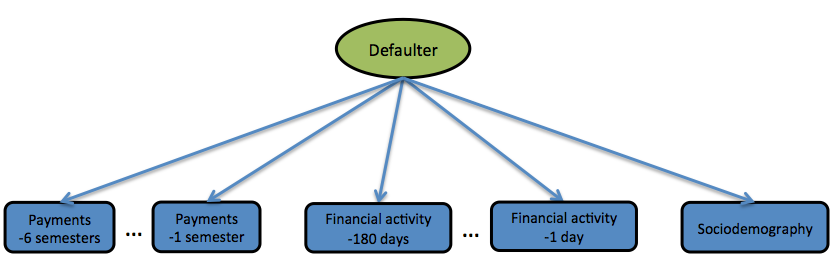
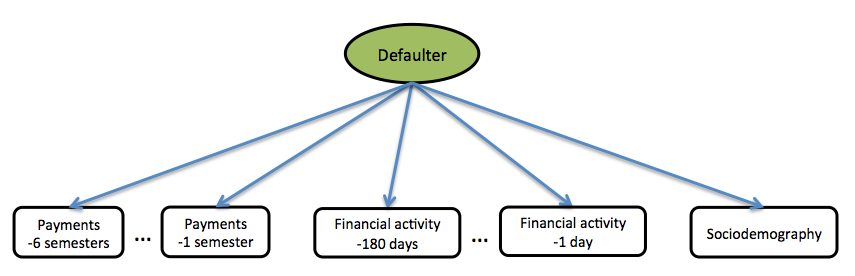
New item in the biblio.bib file (Deliverable 1.2) and other changes in Cajamar document

Changed region(s): [[0.0, 0.0597, 0.9964, 0.9552]]

diff --git a/doc/D2.1_AMIDSTModelingFramework/CajaMarModels.tex b/doc/D2.1_AMIDSTModelingFramework/CajaMarModels.tex
@@ -115,35 +115,43 @@ Figure \ref{Figure:CajaMarStatic} shows the general structure of this static mod
 \begin{figure}[htbp]
   \centering
 \includegraphics[scale=0.5]{./figures/CajaMarModel0}
-\caption{\label{Figure:CajaMarStatic}Global structure of the static model. Each blue box represents a set of variables for a particular time. The green node on top is the class variable \emph{Defaulter} that represents the probability that a customer will default within the next two years. } 
+\caption{\label{Figure:CajaMarStatic}Global structure of the static model. Each white box represents a set of variables for a particular time. The green node on top is the class variable \emph{Defaulter} that represents the probability that a customer will default within the next two years. } 
 \label{fig:static}
 \end{figure}
 
-The variables within a blue box might be connected (e.g. according to a tree structure and, globally, conforming a TAN). Figure~\ref{fig:CajaMarBayesianNetwork} shows a Bayesian network structure learnt from customers data that have been aggregated from different times, e.g., 180 times for financial activities \textcolor{red}{(We think it has no influence to get more dependences in the network structure) }
+Expert knowledge from the bank point out that predicting variables are expected to be related so they might be connected within each box (e.g. according to a tree structure and, globally, conforming a TAN). 
+
+
+
+
+%Figure~\ref{fig:CajaMarBayesianNetwork} shows a Bayesian network structure learnt from customers data that have been aggregated from different times, e.g., 180 times for financial activities \textcolor{red}{(We think it has no influence to get more dependences in the network structure)}
 %To computationally simplify this learning in this preliminary overview,  \textcolor{blue}{only data correspond to one day?} are considered, meaning that the number of cases for learning has been considerably reduced. 
-Looking at the structure is evident that indeed there exist dependences between some of the variables\footnote{For confidentially reasons variable names are not shown}. The structure has been learnt using the R package \texttt{bnlearn}~\cite{Scu10, Nag13}.
-
-\begin{figure}[htbp]
-  \centering
-    \includegraphics[width=70mm]{figures/CajaMarBayesianNetwork}
-    \vspace{-1cm}
-    \caption{Bayesian network structure learnt from 13 variables randomly chosen from the whole set of variables.}
-    \label{fig:CajaMarBayesianNetwork}
-\end{figure}
-
-
+%Looking at the structure is evident that indeed there exist dependences between some of the variables\footnote{For confidentially reasons variable names are not shown}. The structure has been learnt using the R package \texttt{bnlearn}~\cite{Scu10, Nag13}.
+%
+%\begin{figure}[htbp]
+%  \centering
+%    \includegraphics[width=70mm]{figures/CajaMarBayesianNetwork}
+%    \vspace{-1cm}
+%    \caption{Bayesian network structure learnt from 13 variables randomly chosen from the whole set of variables.}
+%    \label{fig:CajaMarBayesianNetwork}
+%\end{figure}
 
 
-\begin{figure}[htbp]
-  \centering
-    \includegraphics[width=70mm]{figures/CajaMarbv4}
-    \caption{Contour plot with (ideally) strong linear correlation between two variables \textcolor{blue}{(maybe class-conditioned?).}}
-    \label{fig:CajamarContourPlot}
-\end{figure}
+%
+%
+%\begin{figure}[htbp]
+%  \centering
+%    \includegraphics[width=70mm]{figures/CajaMarbv4}
+%    \caption{Contour plot with (ideally) strong linear correlation between two variables \textcolor{blue}{(maybe class-conditioned?).}}
+%    \label{fig:CajamarContourPlot}
+%\end{figure}
 
 
 
-Figure \ref{fig:CajamarContourPlot} shows the contour bivariate plot for two variables, showing a clear linear relationship between them. This might even indicate that one variable is just a replica of the other or contain quite similar information, and their joint contribution will not only make learning and inference computationally more expensive, but it could lead to poorer performance. This would contribute to support the need to explore suitable feature selection techniques as specified in Use Case 2 of Cajamar's Requirement analysis.
+%Figure \ref{fig:CajamarContourPlot} shows the contour bivariate plot for two variables, showing a clear linear relationship between them. 
+Moreover, it may happen that one variable is even a replica of the other or contain quite similar information
+%This might even indicate that one variable is just a replica of the other or contain quite similar information, 
+and their joint contribution will not only make learning and inference computationally more expensive, but it could lead to poorer performance. This would contribute to support the need to explore suitable feature selection techniques as specified in Use Case 2 of Cajamar's Requirement analysis\cite{Fer14b} .
 
 
 
@@ -229,7 +237,7 @@ In summary, the process of building this static model consists of the following 
 In this second approach, we will consider the dynamic structure of the problem because the behaviour of the customers evolves over time (e.g. the account balance is continuously changing from one month to another, also the incomes, ...)  as well as the label as a defaulter or non-defaulter customer (e.g. customers can be creditworthy and, after some time, go bankrupt because they have lost their job). 
 
 
-\textcolor{red}{Analysing some of the data, we can actually see that if a customer was a defaulter at day $t$, the probability of being a defaulter at day $t+1$ changes from $p$ (prior probability in the static model) to $p'$ (transition probability in the dynamic model). The reason for this dramatic change is that once a client is a defaulter, he/she will be a defaulter for some time, and the static model is unable to represent this effect. }\textcolor{red}{ And the way we have defined the problem it actually does not matter much, does it? ANTONIO: I DON'T REALLY UNDERSTAND THIS PARAGRAPH} 
+%\textcolor{red}{Analysing some of the data, we can actually see that if a customer was a defaulter at day $t$, the probability of being a defaulter at day $t+1$ changes from $p$ (prior probability in the static model) to $p'$ (transition probability in the dynamic model). The reason for this dramatic change is that once a client is a defaulter, he/she will be a defaulter for some time, and the static model is unable to represent this effect. }\textcolor{red}{ And the way we have defined the problem it actually does not matter much, does it? ANTONIO: I DON'T REALLY UNDERSTAND THIS PARAGRAPH} 
 
 
 
@@ -294,8 +302,11 @@ The variables within a box can be connected as well as variables between two con
 
 \begin{figure}[htbp]
   \centering
-    \includegraphics[width=70mm]{figures/CajamarPartialCorrelogram1}
-    \caption{\label{fig:CajamarPartialCorrelograms}Partial correlogram for a variable. A first order Markov assumption seems reasonable to capture dependences over time.}
+   \begin{tabular}{cc}    
+       \includegraphics[width=70mm]{figures/CajamarPartialCorrelogram} &
+        \includegraphics[width=70mm]{figures/CajamarCorrelogram}
+    \end{tabular}
+     \caption{\label{fig:CajamarCorrelogramsAndPartial} Partial correlogram and correlogram for a variable. A first order Markov assumption seems reasonable to capture dependences over time.}
 \end{figure}
 
 
@@ -381,6 +392,6 @@ The model for the profile extraction is the same as the one depicted in Figure~\
 %
 %The graphical structure of the dynamic probabilistic graphical model devised for this problem is given in Figure \ref{Figure:CajaMarModel1}.  The yellow square boxes ``Day -180'', ..., ``Day-1'' represents the temporal evolution of the predictor variables. The model only refers to 180 days because this is the imposed limit of days when making predictions. Similarly, the class variable ``default'' is assumed to evolve over time but with the relevant different that the default class sequence refers to a point in the time \textbf{two years later} than  the point in the time the daily predictor variables. 
 
-
+\subsubsection{Discussion and future models}
 
 
